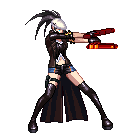
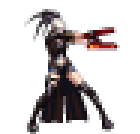
飞起来

Changed region(s): [[0.1714, 0.0597, 0.8571, 1.0]]

diff --git a/data/states/gaming.py b/data/states/gaming.py
@@ -147,7 +147,7 @@ class gaming(tools._State):
         test_collide_group = pg.sprite.Group(self.bricks_group)
 
         if pg.sprite.spritecollideany(character, test_collide_group) is None:
-                if character.state != c.JUMP and character.state != c.SKILL:
+                if character.state != c.JUMP and character.state != c.SKILL:        #飞起来
                     character.state = c.FALL
         character.rect.y -= 1
 

diff --git a/data/components/gun_guy.py b/data/components/gun_guy.py
@@ -23,7 +23,7 @@ class Gun_guy(character.Character):
         else:
             firing_bullet.x_vel = -c.BULLET_VEL
             firing_bullet.rect.right = self.rect.left
-        firing_bullet.rect.centery = self.rect.centery
+        firing_bullet.rect.centery = self.rect.centery-23
         action_group.add(firing_bullet)
 
     def skill(self):

diff --git a/data/constants.py b/data/constants.py
@@ -75,8 +75,8 @@ BULLET_SIZE = (50,10)
 BG_COLOR = GRAY
 
 #Character speeds(higher = slower)
-CHARACTER_MOVING_SPEED = 35
+CHARACTER_MOVING_SPEED = 40
 CHARACTER_SKILL_SPEED = 15
 
 #Character size
-CHARACTER_SIZE=(103,133)
+CHARACTER_SIZE=(103//2,133//2)
